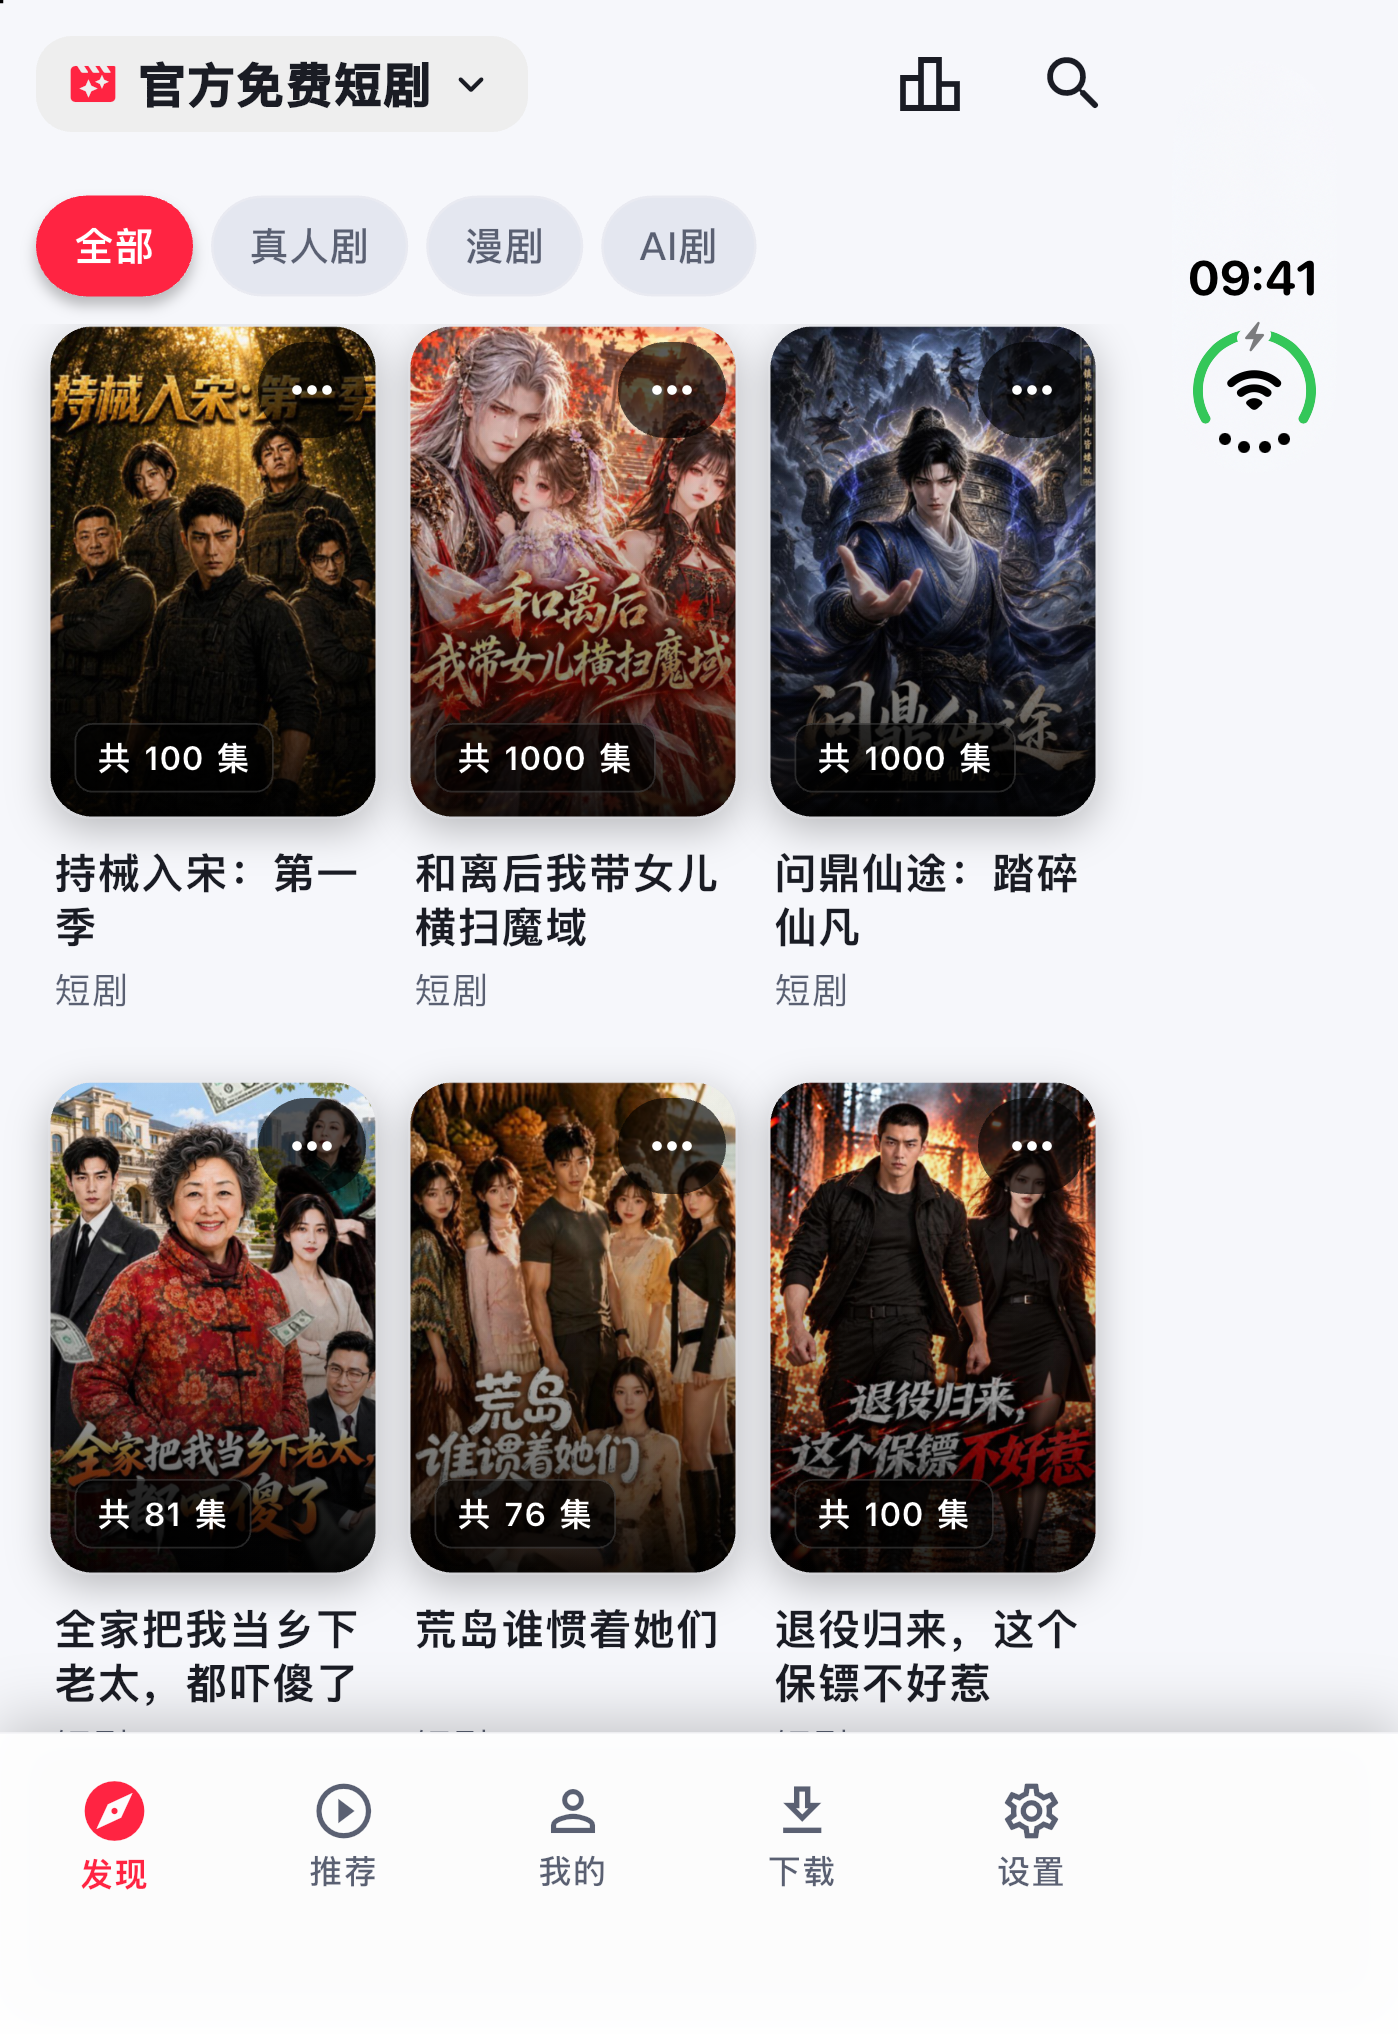
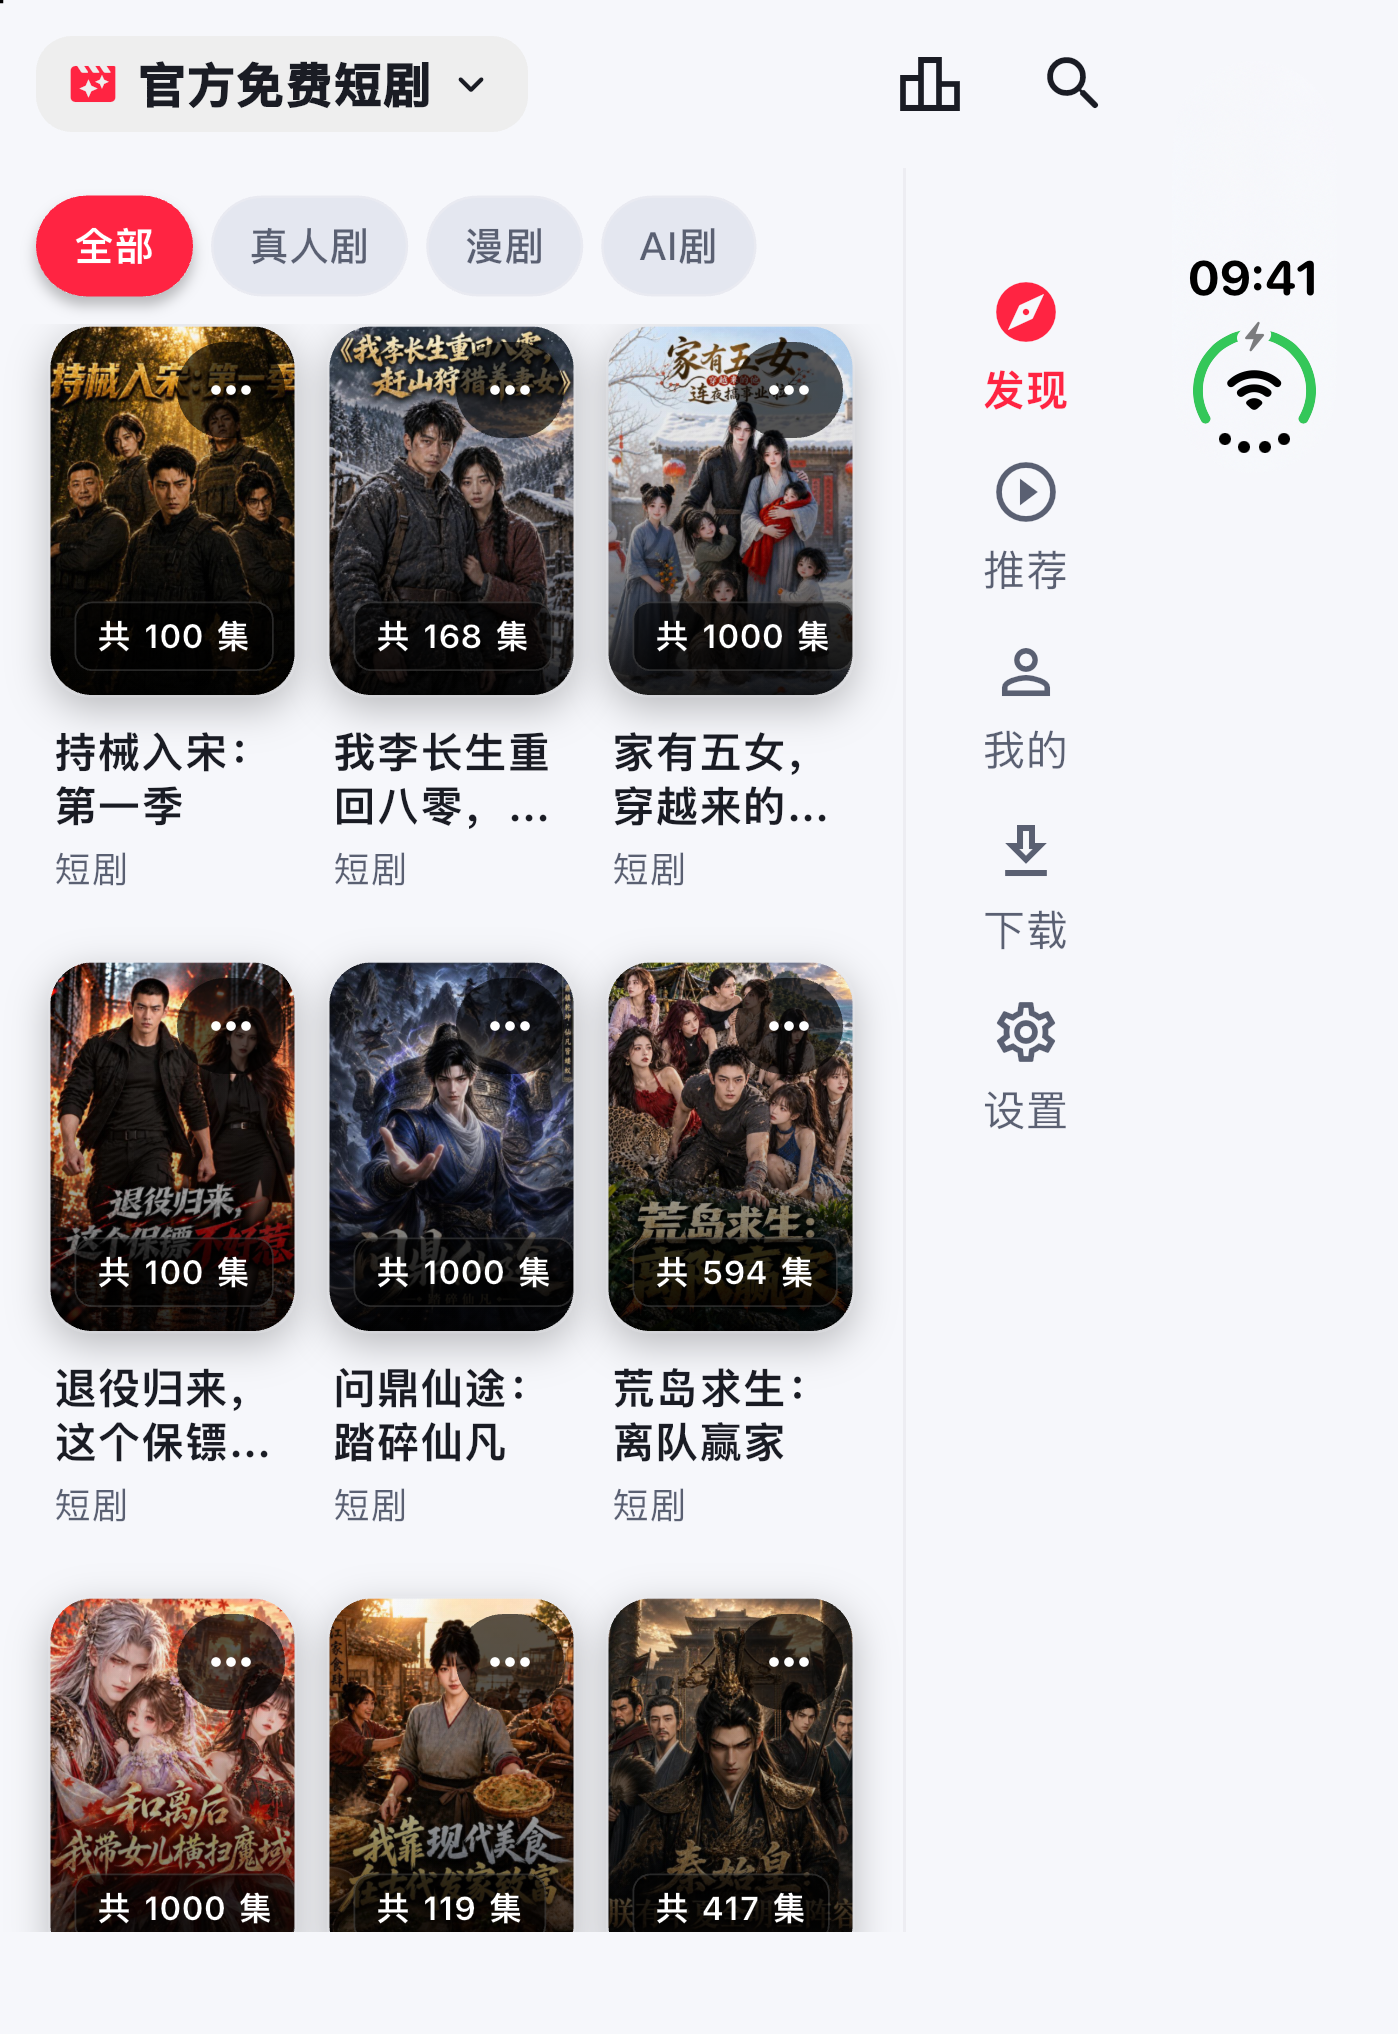
feat(ui): 适配 iPhone Duo 与折叠双屏设备右侧导航栏交互并更新截图

diff --git a/lib/pages/home/home_page.dart b/lib/pages/home/home_page.dart
@@ -1224,6 +1224,13 @@ class _HomeScreenState extends State<HomeScreen> {
       builder: (context, constraints) {
         final television = AppLayout.isTelevision(context);
         final desktop = constraints.maxWidth >= 840;
+        final aspectRatio = constraints.maxHeight > 0
+            ? constraints.maxWidth / constraints.maxHeight
+            : 0.0;
+        final sideRailRight = !television &&
+            !desktop &&
+            (aspectRatio >= 0.65 ||
+                (constraints.maxWidth >= 600 && constraints.maxWidth < 840));
         final destinations = [
           (0, Icons.explore_outlined, Icons.explore, '发现'),
           (4, Icons.play_circle_outline, Icons.play_circle, '推荐'),
@@ -1395,11 +1402,29 @@ class _HomeScreenState extends State<HomeScreen> {
                       ],
                     ),
                   ),
+                  if (sideRailRight) ...[
+                    const VerticalDivider(width: 1, thickness: 1),
+                    NavigationRail(
+                      selectedIndex: navIndex,
+                      onDestinationSelected: (index) =>
+                          _onNavSelected(destinations[index].$1),
+                      labelType: NavigationRailLabelType.all,
+                      groupAlignment: -.8,
+                      destinations: [
+                        for (final item in destinations)
+                          NavigationRailDestination(
+                            icon: Icon(item.$2),
+                            selectedIcon: Icon(item.$3),
+                            label: Text(item.$4),
+                          ),
+                      ],
+                    ),
+                  ],
                 ],
               ),
             ),
           ),
-          bottomNavigationBar: desktop || television
+          bottomNavigationBar: desktop || television || sideRailRight
               ? null
               : _selectionMode
               ? _selectionBar()
